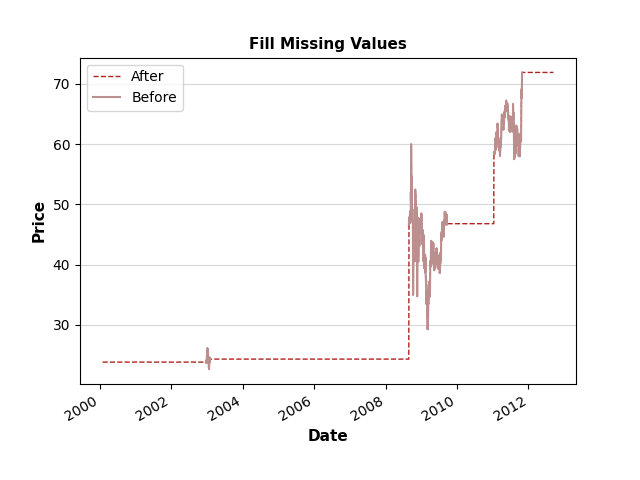
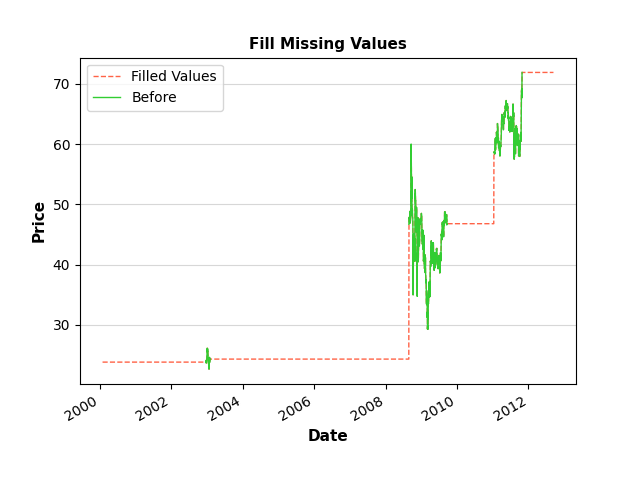
docs: Details added in the utils example code.
README files updated in the utils example code. Example code re-executed
with graph colors modified.

diff --git a/examples/utils/example_data_preprocessing.py b/examples/utils/example_data_preprocessing.py
@@ -23,10 +23,10 @@ for data_file in ['example_data_missing_1.csv', 'example_data_missing_2.csv',
     df.columns = ['After', 'Before']
 
     # Plot the updates on the data
-    plt.plot(df.index, df['After'], label='After', color='firebrick',
-             linestyle='--', linewidth=1)
-    plt.plot(df.index, df['Before'], label='Before', color='rosybrown',
-             linestyle='-', linewidth=1.5)
+    plt.plot(df.index, df['After'], label='Filled Values', color='tomato',
+             linestyle='--', linewidth=1, alpha=1.0)
+    plt.plot(df.index, df['Before'], label='Before', color='limegreen',
+             linestyle='-', linewidth=1, alpha=1.0)
     plt.grid(which='major', axis='y', alpha=0.5)
     plt.xlabel('Date', fontsize=11, fontweight='bold')
     plt.ylabel('Price', fontsize=11, fontweight='bold')
